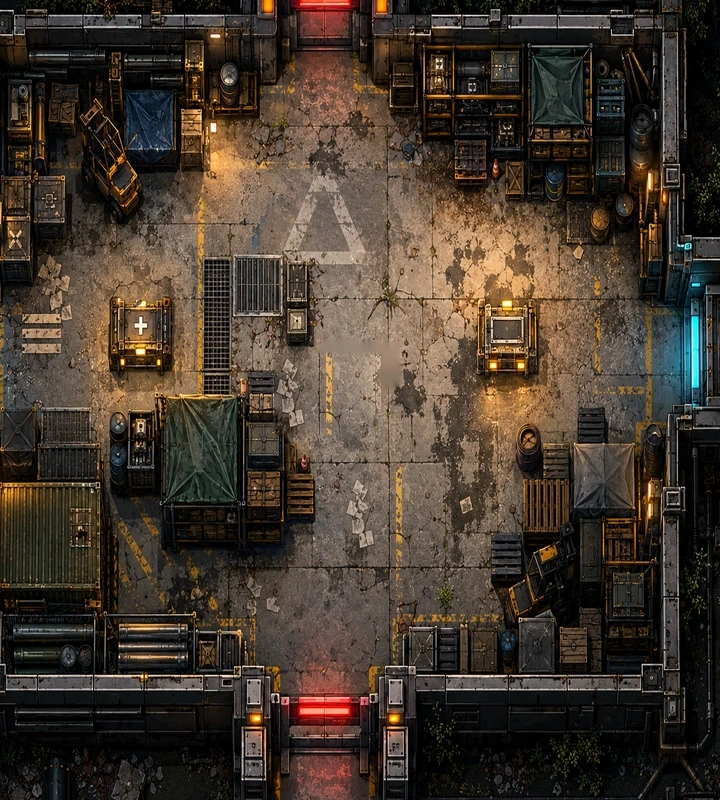
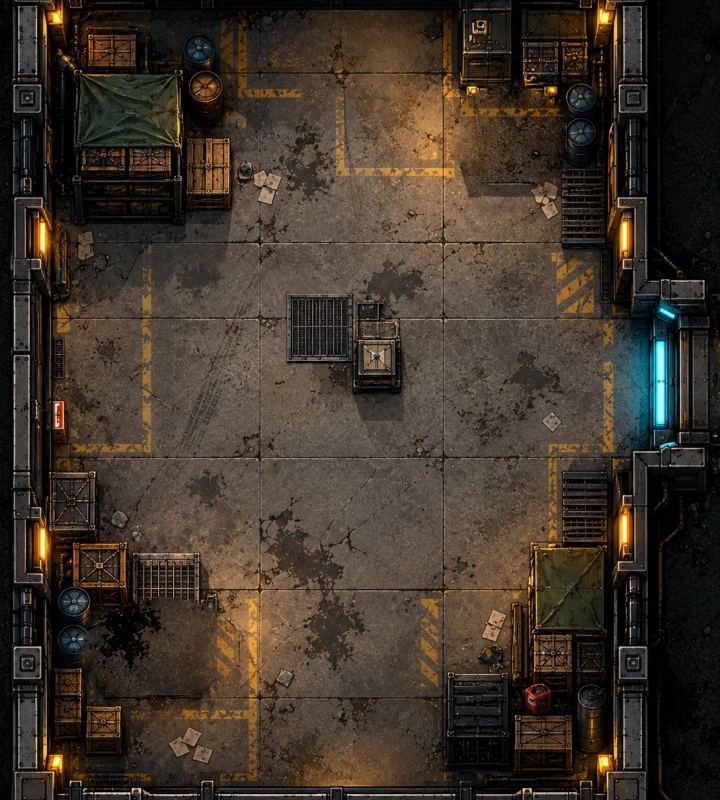
ASHFALL 0.9.3 — Alpha V5.1

diff --git a/RAPPORT_SALLE03_V51.md b/RAPPORT_SALLE03_V51.md
@@ -1,0 +1,9 @@
+# ASHFALL — Salle 03 V5.1 — Refonte
+
+- Architecture conservée : 720×800 unités, connexion unique Est vers salle 02, porte à y=400.
+- Fond illustré redessiné avec uniquement la sortie est. Illustration recadrée à proportion logique 9:10 et réduite uniformément, sans distorsion.
+- Décor simplifié : espace central dégagé, quatre zones de stockage aux angles.
+- Deux coffres restent dessinés par le moteur aux positions (360,165), (545,670) avec ouverture automatique. Les coffres peints dans le fond ont été effacés par retouche numérique (inspection en jeu conseillée).
+- Collisions de la salle 03 revues sur quatre amas en périphérie. Les autres salles restent inchangées.
+- À valider sur iPhone : transition de la seule porte est, coffres et collision avec obstacles, cadrage/caméra, qualité des retouches. Aucun test physique iPhone effectué.
+- Aucune publication GitHub.
